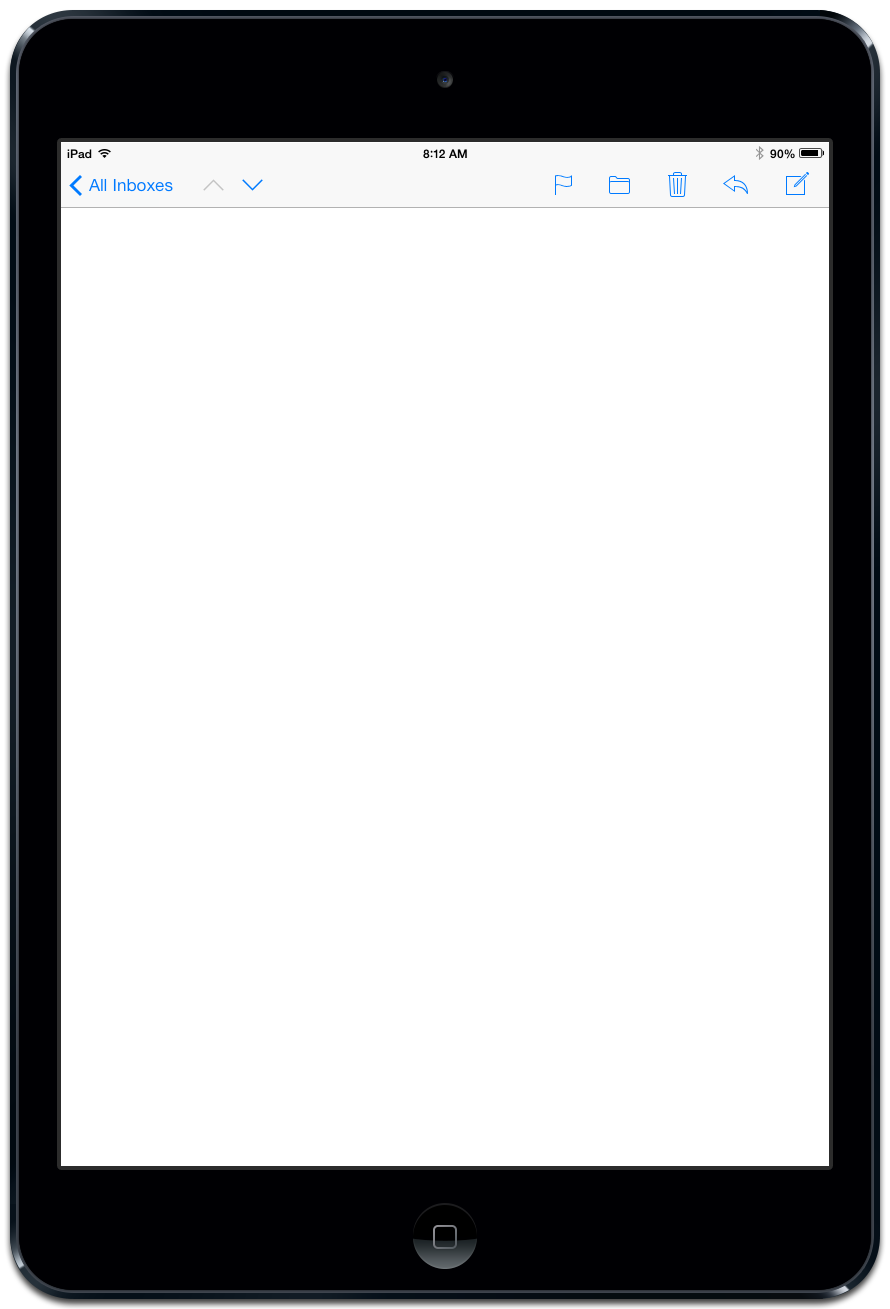
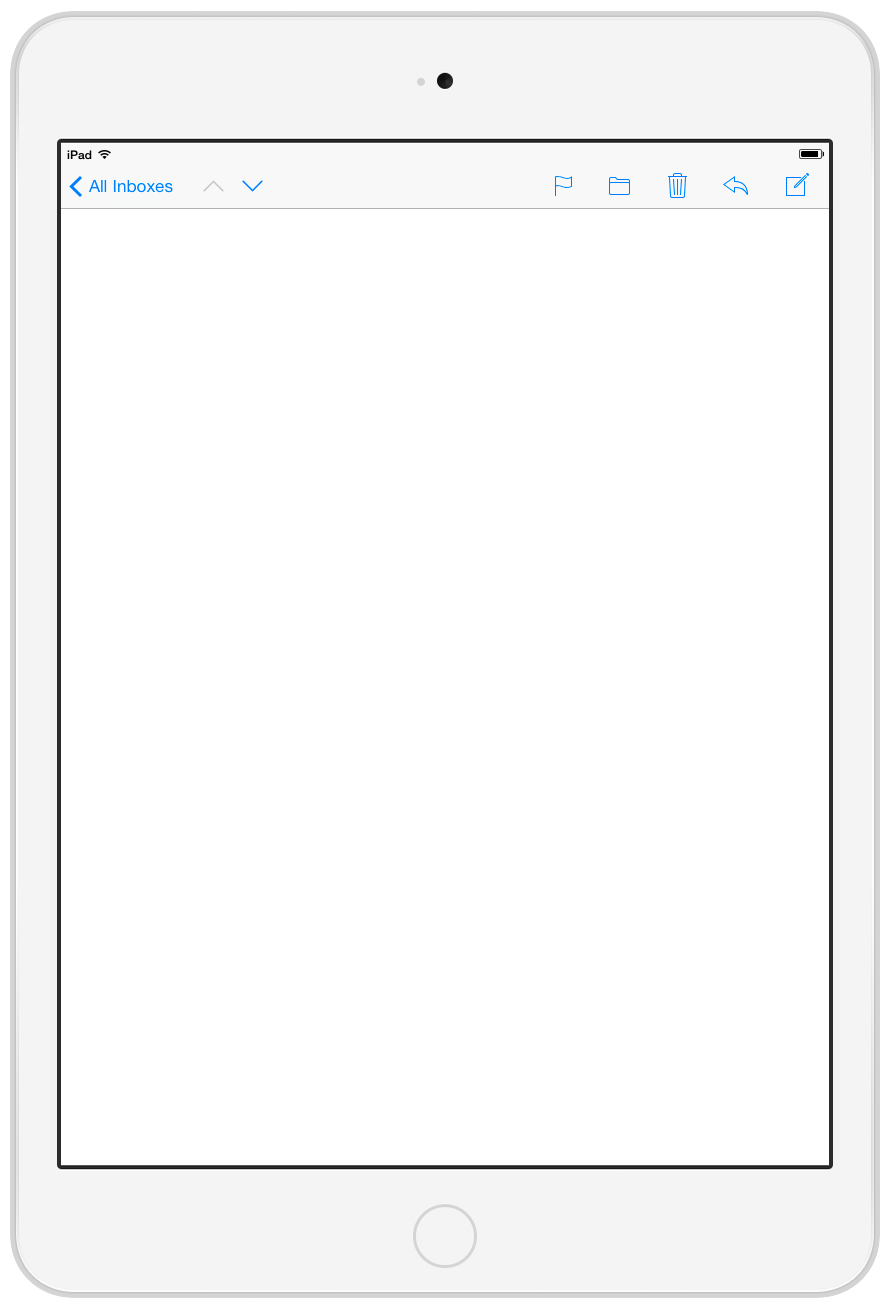
Bring device chrome UI up to date.

Changed region(s): [[0.0, 0.0, 1.0, 1.0]]

diff --git a/iPhone 6s Plus.htm b/iPhone 6s Plus.htm
@@ -8,13 +8,13 @@
     <p>Note: You can use your keyboard's arrow keys to scroll up and down through the email. You can also build your own interface elements to scroll the email, using our provided Javascript functions to <a href="#" onclick="scrollUp(); return false;">scrollUp();</a> and <a href="#" onclick="scrollDown(); return false;">scrollDown();</a>.</p>
 
     <div id="thirdparty_litmus_mobile_screen" style="background:
-      url('http://media.emailtests.com/iphone-6s-plus-device.png') no-repeat 0 0;
+      url('images/iphone-6s-plus.png') no-repeat 0 0;
       width: 476px; height: 960px; margin: 0 60px; position:
       relative;">
       <div id="thirdparty_litmus_mobile_container" style="overflow: hidden;
-        width: 414px; position: absolute; left: 31px; top: 196px; height: 593px;">
+        width: 414px; position: absolute; left: 31px; top: 178px; height: 625px;">
         <div id="thirdparty_litmus_screen">
-          <img src="http://media.emailtests.com/results/IPHONE6SPLUS_full_on.png" id="thirdparty_litmus_screenimg" style="position: absolute;">
+          <img src="images/email-screenshots/iphone-6s-plus-email.png" id="thirdparty_litmus_screenimg" style="position: absolute;">
         </div>
       </div>
     </div>

diff --git a/iPhone 6 Plus.htm b/iPhone 6 Plus.htm
@@ -8,13 +8,13 @@
     <p>Note: You can use your keyboard's arrow keys to scroll up and down through the email. You can also build your own interface elements to scroll the email, using our provided Javascript functions to <a href="#" onclick="scrollUp(); return false;">scrollUp();</a> and <a href="#" onclick="scrollDown(); return false;">scrollDown();</a>.</p>
 
     <div id="thirdparty_litmus_mobile_screen" style="background:
-      url('http://media.emailtests.com/iphone-6-plus-device.png') no-repeat 0 0;
+      url('images/iphone-6-plus.png') no-repeat 0 0;
       width: 476px; height: 960px; margin: 0 60px; position:
       relative;">
       <div id="thirdparty_litmus_mobile_container" style="overflow: hidden;
-        width: 414px; position: absolute; left: 31px; top: 196px; height: 593px;">
+        width: 414px; position: absolute; left: 31px; top: 178px; height: 625px;">
         <div id="thirdparty_litmus_screen">
-          <img src="http://media.emailtests.com/results/IPHONE6PLUS_full_on.png" id="thirdparty_litmus_screenimg" style="position: absolute;">
+          <img src="images/email-screenshots/iphone-6-plus-email.png" id="thirdparty_litmus_screenimg" style="position: absolute;">
         </div>
       </div>
     </div>

diff --git a/iPhone 5s.htm b/iPhone 5s.htm
@@ -7,10 +7,10 @@
 
 		<p>Note: You can use your keyboard's arrow keys to scroll up and down through the email. You can also build your own interface elements to scroll the email, using our provided Javascript functions to <a href="#" onclick="scrollUp(); return false;">scrollUp();</a> and <a href="#" onclick="scrollDown(); return false;">scrollDown();</a>.</p>
 
-		<div id="thirdparty_litmus_mobile_screen" style="background: url('http://media.emailtests.com/iphone-5s-device.png') no-repeat 57px 0; width: 500px; height: 800px; padding-top: 120px; position: relative;">
+		<div id="thirdparty_litmus_mobile_screen" style="background: url('images/iphone-5s.png') no-repeat 57px 0; width: 500px; height: 800px; padding-top: 120px; position: relative;">
 		<div id="thirdparty_litmus_mobile_container" style="overflow: hidden; width: 320px; position: absolute; left: 99px; top: 189px; height: 460px;">
 		<div id="thirdparty_litmus_screen">
-		  <img src="http://media.emailtests.com/results/IPHONE5S_full_on.png" id="thirdparty_litmus_screenimg" style="position: absolute;">
+		  <img src="images/email-screenshots/iphone-5s-email.png" id="thirdparty_litmus_screenimg" style="position: absolute;">
 		</div>
 	</body>
 </html>

diff --git a/Android 4.4.htm b/Android 4.4.htm
@@ -10,10 +10,10 @@
 
 		<p>Note: You can use your keyboard's arrow keys to scroll up and down through the email. You can also build your own interface elements to scroll the email, using our provided Javascript functions to <a href="#" onclick="scrollUp(); return false;">scrollUp();</a> and <a href="#" onclick="scrollDown(); return false;">scrollDown();</a>.</p>
 
-		<div id="thirdparty_litmus_mobile_screen" style="background: url(http://media.emailtests.com/android-4-4.png) no-repeat 0 0; width: 445px; height: 879px; padding-top: 59px; position: relative;">
+		<div id="thirdparty_litmus_mobile_screen" style="background: url(images/android-4-4.png) no-repeat 0 0; width: 445px; height: 879px; padding-top: 59px; position: relative;">
 		<div id="thirdparty_litmus_mobile_container" style="overflow: hidden; height: 615px; width: 360px; position: absolute; left: 57px; top: 150px;">
 			<div id="thirdparty_litmus_screen">
-			  <img src="http://media.emailtests.com/results/android-email-4-4.png" id="thirdparty_litmus_screenimg" style="position: absolute;">
+			  <img src="images/email-screenshots/android-4-4-email.png" id="thirdparty_litmus_screenimg" style="position: absolute;">
 			</div>
 		</div>
 	</div>

diff --git a/Android 5.1.htm b/Android 5.1.htm
@@ -10,10 +10,10 @@
 
 		<p>Note: You can use your keyboard's arrow keys to scroll up and down through the email. You can also build your own interface elements to scroll the email, using our provided Javascript functions to <a href="#" onclick="scrollUp(); return false;">scrollUp();</a> and <a href="#" onclick="scrollDown(); return false;">scrollDown();</a>.</p>
 
-		<div id="thirdparty_litmus_mobile_screen" style="background: url(http://media.emailtests.com/android-5-1.png) no-repeat 0 0; width: 445px; height: 879px; padding-top: 59px; position: relative;">
+		<div id="thirdparty_litmus_mobile_screen" style="background: url(images/android-5-1.png) no-repeat 0 0; width: 445px; height: 879px; padding-top: 59px; position: relative;">
 		<div id="thirdparty_litmus_mobile_container" style="overflow: hidden; height: 687px; width: 358px; position: absolute; left: 43px; top: 135px;">
 			<div id="thirdparty_litmus_screen">
-			  <img src="http://media.emailtests.com/results/android-email-5-1.png" id="thirdparty_litmus_screenimg" style="position: absolute;">
+			  <img src="images/email-screenshots/android-5-1-email.png" id="thirdparty_litmus_screenimg" style="position: absolute;">
 			</div>
 		</div>
 	</div>

diff --git a/Android 6.0.htm b/Android 6.0.htm
@@ -10,10 +10,10 @@
 
 		<p>Note: You can use your keyboard's arrow keys to scroll up and down through the email. You can also build your own interface elements to scroll the email, using our provided Javascript functions to <a href="#" onclick="scrollUp(); return false;">scrollUp();</a> and <a href="#" onclick="scrollDown(); return false;">scrollDown();</a>.</p>
 
-		<div id="thirdparty_litmus_mobile_screen" style="background: url(http://media.emailtests.com/android-6-0.png) no-repeat 0 0; width: 445px; height: 879px; padding-top: 59px; position: relative;">
+		<div id="thirdparty_litmus_mobile_screen" style="background: url(images/android-6-0.png) no-repeat 0 0; width: 445px; height: 879px; padding-top: 59px; position: relative;">
 		<div id="thirdparty_litmus_mobile_container" style="overflow: hidden; height: 687px; width: 358px; position: absolute; left: 43px; top: 135px;">
 			<div id="thirdparty_litmus_screen">
-			  <img src="http://media.emailtests.com/results/android-email-6-0.png" id="thirdparty_litmus_screenimg" style="position: absolute;">
+			  <img src="images/email-screenshots/android-6-0-email.png" id="thirdparty_litmus_screenimg" style="position: absolute;">
 			</div>
 		</div>
 	</div>

diff --git a/iPad Mini.htm b/iPad Mini.htm
@@ -7,10 +7,10 @@
 
     <p>Note: You can use your keyboard's arrow keys to scroll up and down through the email. You can also build your own interface elements to scroll the email, using our provided Javascript functions to <a href="#" onclick="scrollUp(); return false;">scrollUp();</a> and <a href="#" onclick="scrollDown(); return false;">scrollDown();</a>.</p>
 
-    <div id="thirdparty_litmus_mobile_screen" style="background: url('http://media.emailtests.com/ipad-mini.png') no-repeat 0px 0; width: 892px; height: 1262px; position: relative;">
+    <div id="thirdparty_litmus_mobile_screen" style="background: url('images/ipad-mini.png') no-repeat 0px 0; width: 892px; height: 1309px; position: relative;">
     <div id="thirdparty_litmus_mobile_container" style="overflow: hidden; width: 768px; position: absolute; left: 61px; top: 208px; height: 958px;">
       <div id="thirdparty_litmus_screen">
-        <img src="http://media.emailtests.com/results/IPADMINI_full_on.png" id="thirdparty_litmus_screenimg" style="position: absolute;">
+        <img src="images/email-screenshots/ipad-mini-email.png" id="thirdparty_litmus_screenimg" style="position: absolute;">
       </div>
     </div>
   </div>

diff --git a/iPhone 6s.htm b/iPhone 6s.htm
@@ -8,13 +8,13 @@
     <p>Note: You can use your keyboard's arrow keys to scroll up and down through the email. You can also build your own interface elements to scroll the email, using our provided Javascript functions to <a href="#" onclick="scrollUp(); return false;">scrollUp();</a> and <a href="#" onclick="scrollDown(); return false;">scrollDown();</a>.</p>
 
     <div id="thirdparty_litmus_mobile_screen" style="background:
-      url('http://media.emailtests.com/iphone-6s-device.png') no-repeat 0 0;
+      url('images/iphone-6s.png') no-repeat 0 0;
       width: 434px; height: 889px; margin: 0 60px; position:
       relative;">
       <div id="thirdparty_litmus_mobile_container" style="overflow: hidden;
         width: 375px; position: absolute; left: 29px; top: 186px; height: 538px;">
         <div id="thirdparty_litmus_screen">
-          <img src="http://media.emailtests.com/results/IPHONE6S_full_on.png" id="thirdparty_litmus_screenimg" style="position: absolute;">
+          <img src="images/email-screenshots/iphone-6s-email.png" id="thirdparty_litmus_screenimg" style="position: absolute;">
         </div>
       </div>
     </div>

diff --git a/iPhone 6.htm b/iPhone 6.htm
@@ -8,13 +8,13 @@
     <p>Note: You can use your keyboard's arrow keys to scroll up and down through the email. You can also build your own interface elements to scroll the email, using our provided Javascript functions to <a href="#" onclick="scrollUp(); return false;">scrollUp();</a> and <a href="#" onclick="scrollDown(); return false;">scrollDown();</a>.</p>
 
     <div id="thirdparty_litmus_mobile_screen" style="background:
-      url('http://media.emailtests.com/iphone-6-device.png') no-repeat 0 0;
+      url('images/iphone-6.png') no-repeat 0 0;
       width: 434px; height: 889px; margin: 0 60px; position:
       relative;">
       <div id="thirdparty_litmus_mobile_container" style="overflow: hidden;
         width: 375px; position: absolute; left: 29px; top: 186px; height: 538px;">
         <div id="thirdparty_litmus_screen">
-          <img src="http://media.emailtests.com/results/IPHONE6_full_on.png" id="thirdparty_litmus_screenimg" style="position: absolute;">
+          <img src="images/email-screenshots/iphone-6-email.png" id="thirdparty_litmus_screenimg" style="position: absolute;">
         </div>
       </div>
     </div>

diff --git a/iPhone 7 Plus.htm b/iPhone 7 Plus.htm
@@ -8,13 +8,13 @@
     <p>Note: You can use your keyboard's arrow keys to scroll up and down through the email. You can also build your own interface elements to scroll the email, using our provided Javascript functions to <a href="#" onclick="scrollUp(); return false;">scrollUp();</a> and <a href="#" onclick="scrollDown(); return false;">scrollDown();</a>.</p>
 
     <div id="thirdparty_litmus_mobile_screen" style="background:
-      url('images/iphone-7-plus-device.png') no-repeat 0 0;
+      url('images/iphone-7-plus.png') no-repeat 0 0;
       width: 476px; height: 960px; margin: 0 60px; position:
       relative;">
       <div id="thirdparty_litmus_mobile_container" style="overflow: hidden;
         width: 414px; position: absolute; left: 31px; top: 177px; height: 626px;">
         <div id="thirdparty_litmus_screen">
-          <img src="http://media.emailtests.com/results/IPHONE6PLUS_full_on.png" id="thirdparty_litmus_screenimg" style="position: absolute;">
+          <img src="images/email-screenshots/iphone-7-plus-email.png" id="thirdparty_litmus_screenimg" style="position: absolute;">
         </div>
       </div>
     </div>

diff --git a/iPhone 7.htm b/iPhone 7.htm
@@ -8,13 +8,13 @@
     <p>Note: You can use your keyboard's arrow keys to scroll up and down through the email. You can also build your own interface elements to scroll the email, using our provided Javascript functions to <a href="#" onclick="scrollUp(); return false;">scrollUp();</a> and <a href="#" onclick="scrollDown(); return false;">scrollDown();</a>.</p>
 
     <div id="thirdparty_litmus_mobile_screen" style="background:
-      url('images/iphone-7-device.png') no-repeat 0 0;
+      url('images/iphone-7.png') no-repeat 0 0;
       width: 434px; height: 889px; margin: 0 60px; position:
       relative;">
       <div id="thirdparty_litmus_mobile_container" style="overflow: hidden;
         width: 375px; position: absolute; left: 29px; top: 186px; height: 538px;">
         <div id="thirdparty_litmus_screen">
-          <img src="http://media.emailtests.com/results/IPHONE6_full_on.png" id="thirdparty_litmus_screenimg" style="position: absolute;">
+          <img src="images/email-screenshots/iphone-7-email.png" id="thirdparty_litmus_screenimg" style="position: absolute;">
         </div>
       </div>
     </div>
